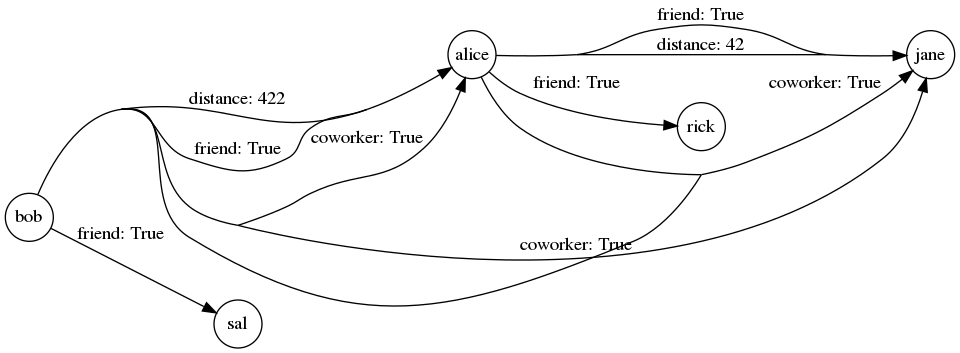
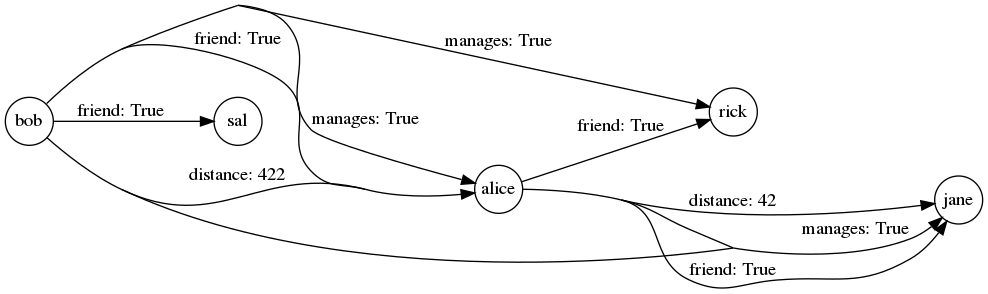
readme

diff --git a/graphony/tests/test_README.py b/graphony/tests/test_README.py
@@ -24,7 +24,7 @@ def _phm_setup_doctest_teardown(doctest_namespace, managenamespace):
     for k, v in additions.items():
         doctest_namespace[k] = v
     yield
-    # teardown code line 383.
+    # teardown code line 353.
     postgresql.teardown(pgdata)
 
     managenamespace(operation="clear")
@@ -91,15 +91,15 @@ def session_00005_line_132():
 
 def session_00006_line_157():
     r"""
-    >>> G.add_relation('coworker', incidence=True)
+    >>> G.add_relation('manages', incidence=True)
     """
 
 
 def session_00007_line_164():
     r"""
-    >>> G.coworker += [('bob', ('jane', 'alice')), (('alice', 'bob'), 'jane')]
+    >>> G.manages += [('bob', ('rick', 'alice')), (('alice', 'bob'), 'jane')]
 
-    >>> G.coworker.draw(weights=True, filename='docs/imgs/G_coworker_1')
+    >>> G.manages.draw(weights=True, filename='docs/imgs/G_manages_1')
     <graphviz.dot.Digraph object at ...>
     """
 
@@ -128,8 +128,8 @@ def session_00010_line_215():
      friend(bob, sal),
      friend(alice, jane),
      friend(alice, rick),
-     coworker((bob), (alice, jane), (True, True)),
-     coworker((bob, alice), (jane), (True)),
+     manages((bob), (alice, jane), (True, True)),
+     manages((bob, alice), (jane), (True)),
      distance(bob, alice, 422),
      distance(alice, jane, 42)]
     """
@@ -140,17 +140,17 @@ def session_00011_line_229():
     >>> p(G(source='bob'))
     [friend(bob, alice),
      friend(bob, sal),
-     coworker((bob), (alice, jane), (True, True)),
-     coworker((bob, alice), (jane), (True)),
+     manages((bob), (alice, jane), (True, True)),
+     manages((bob, alice), (jane), (True)),
      distance(bob, alice, 422)]
     """
 
 
 def session_00012_line_240():
     r"""
-    >>> p(G(relation='coworker'))
-    [coworker((bob), (alice, jane), (True, True)),
-     coworker((bob, alice), (jane), (True))]
+    >>> p(G(relation='manages'))
+    [manages((bob), (alice, jane), (True, True)),
+     manages((bob, alice), (jane), (True))]
 
     """
 
@@ -159,17 +159,17 @@ def session_00013_line_249():
     r"""
     >>> p(G(destination='jane'))
     [friend(alice, jane),
-     coworker((bob), (alice, jane), (True, True)),
-     coworker((bob, alice), (jane), (True)),
+     manages((bob), (alice, jane), (True, True)),
+     manages((bob, alice), (jane), (True)),
      distance(alice, jane, 42)]
     """
 
 
 def session_00014_line_261():
     r"""
-    >>> p(G(source='bob', relation='coworker', destination='jane'))
-    [coworker((bob), (alice, jane), (True, True)),
-     coworker((bob, alice), (jane), (True))]
+    >>> p(G(source='bob', relation='manages', destination='jane'))
+    [manages((bob), (alice, jane), (True, True)),
+     manages((bob, alice), (jane), (True))]
     """
 
 
@@ -197,13 +197,14 @@ def session_00017_line_303():
     >>> G.add_relation('debruijn', incidence=True)
     >>> def kmer(t, k=3): 
     ...     return (tuple(map("".join, windowed(i, k-1))) for i in map("".join, windowed(t, k)))
+
     >>> G.debruijn += kmer('ATCGATCGGATGACAGACACAATTC')
     >>> G.debruijn.draw(graph_attr=dict(layout='circo'), weights=False, concentrate=True, filename='docs/imgs/G_debruijn_1')
     <graphviz...>
     """
 
 
-def session_00018_line_319():
+def session_00018_line_320():
     r"""
     >>> M = G.debruijn(INT64.plus_pair)
     >>> gviz.draw_graph(M, weights=True, label_vector=G.debruijn.label_vector(M), 
@@ -212,7 +213,7 @@ def session_00018_line_319():
     """
 
 
-def session_00019_line_332():
+def session_00019_line_333():
     r"""
     >>> from Bio import SeqIO, Entrez
     >>> Entrez.email = "info@graphegon.com"
@@ -229,22 +230,4 @@ def session_00019_line_332():
     >>> gviz.draw_graph(M, weights=True, labels=True, label_vector=G.circovirus.label_vector(M),
     ...                 graph_attr=dict(layout='sfdp'), filename='docs/imgs/G_circovirus_1')
     <graphviz...>
-    """
-
-
-def session_00020_line_365():
-    r"""
-    >>> G
-    <Graph [friend, coworker, distance, karate, debruijn, circovirus]: 750>
-
-    >>> from graphony.lib import pagerank
-    >>> G.add_relation('PR')
-    >>> I = "BCDEFDEEFGGHHIIJK"
-    >>> J = "CBBBBADFEBEBEBEEE"
-    >>> G.PR += zip(I, J)
-    >>> rank, iters = pagerank(G.PR(cast=FP64))
-
-    >>> G.PR.draw(weights=False, filename='docs/imgs/G_PR_1', rankdir='BT',
-    ...           label_vector=rank, label_width=4)
-    <graphviz.dot.Digraph object at ...>
     """

diff --git a/README.md b/README.md
@@ -154,19 +154,19 @@ Matrices](https://en.wikipedia.org/wiki/Incidence_matrix) which can
 represent non-simple graphs like the hypergraph shown here:
 
 ```python3
->>> G.add_relation('coworker', incidence=True)
+>>> G.add_relation('manages', incidence=True)
 ```
 
 New hyperedges can be defined by passing a nested tuple of nodes as
 either the source or destinations, or both, for a hyperedge.
 
 ```python3
->>> G.coworker += [('bob', ('jane', 'alice')), (('alice', 'bob'), 'jane')]
+>>> G.manages += [('bob', ('rick', 'alice')), (('alice', 'bob'), 'jane')]
 
->>> G.coworker.draw(weights=True, filename='docs/imgs/G_coworker_1')
+>>> G.manages.draw(weights=True, filename='docs/imgs/G_manages_1')
 <graphviz.dot.Digraph object at ...>
 ```
-![G_coworker_1.png](docs/imgs/G_coworker_1.png)
+![G_manages_1.png](docs/imgs/G_manages_1.png)
 
 Here a hyperedge with one source and two destinations is created from
 bob to jane and alice, and another with two sources and one
@@ -197,7 +197,7 @@ GraphBLAS type if you want different precision or a custom type.
 # Graph Querying
 
 Currently our graph looks like this, it contains 3 relations,
-`friend`, `coworker` and `distance`:
+`friend`, `manages` and `distance`:
 
 ```python3
 >>> G.draw(weights=True, filename='docs/imgs/G_all_1')
@@ -217,8 +217,8 @@ three is None, which acts as a wildcard to matches all values.
  friend(bob, sal),
  friend(alice, jane),
  friend(alice, rick),
- coworker((bob), (alice, jane), (True, True)),
- coworker((bob, alice), (jane), (True)),
+ manages((bob), (alice, jane), (True, True)),
+ manages((bob, alice), (jane), (True)),
  distance(bob, alice, 422),
  distance(alice, jane, 42)]
 ```
@@ -229,17 +229,17 @@ Only print edges where `bob` is the src:
 >>> p(G(source='bob'))
 [friend(bob, alice),
  friend(bob, sal),
- coworker((bob), (alice, jane), (True, True)),
- coworker((bob, alice), (jane), (True)),
+ manages((bob), (alice, jane), (True, True)),
+ manages((bob, alice), (jane), (True)),
  distance(bob, alice, 422)]
 ```
 
-Only print edges where `coworker` is the relation:
+Only print edges where `manages` is the relation:
 
 ```python3
->>> p(G(relation='coworker'))
-[coworker((bob), (alice, jane), (True, True)),
- coworker((bob, alice), (jane), (True))]
+>>> p(G(relation='manages'))
+[manages((bob), (alice, jane), (True, True)),
+ manages((bob, alice), (jane), (True))]
 
 ```
 
@@ -248,19 +248,19 @@ Only print edges where `jane` is the destination:
 ```python3
 >>> p(G(destination='jane'))
 [friend(alice, jane),
- coworker((bob), (alice, jane), (True, True)),
- coworker((bob, alice), (jane), (True)),
+ manages((bob), (alice, jane), (True, True)),
+ manages((bob, alice), (jane), (True)),
  distance(alice, jane, 42)]
 ```
 
-Only print edges that match that `bob` is a `coworker` of `jane`.
+Only print edges that match that `bob` is a `manages` of `jane`.
 Note in this case it returns two hyperedges, as in both cases bob is a
 source and jane is a destination:
 
 ```python3
->>> p(G(source='bob', relation='coworker', destination='jane'))
-[coworker((bob), (alice, jane), (True, True)),
- coworker((bob, alice), (jane), (True))]
+>>> p(G(source='bob', relation='manages', destination='jane'))
+[manages((bob), (alice, jane), (True, True)),
+ manages((bob, alice), (jane), (True))]
 ```
 
 # Loading Graphs from SQL
@@ -304,6 +304,7 @@ of nodes.
 >>> G.add_relation('debruijn', incidence=True)
 >>> def kmer(t, k=3): 
 ...     return (tuple(map("".join, windowed(i, k-1))) for i in map("".join, windowed(t, k)))
+
 >>> G.debruijn += kmer('ATCGATCGGATGACAGACACAATTC')
 >>> G.debruijn.draw(graph_attr=dict(layout='circo'), weights=False, concentrate=True, filename='docs/imgs/G_debruijn_1')
 <graphviz...>
